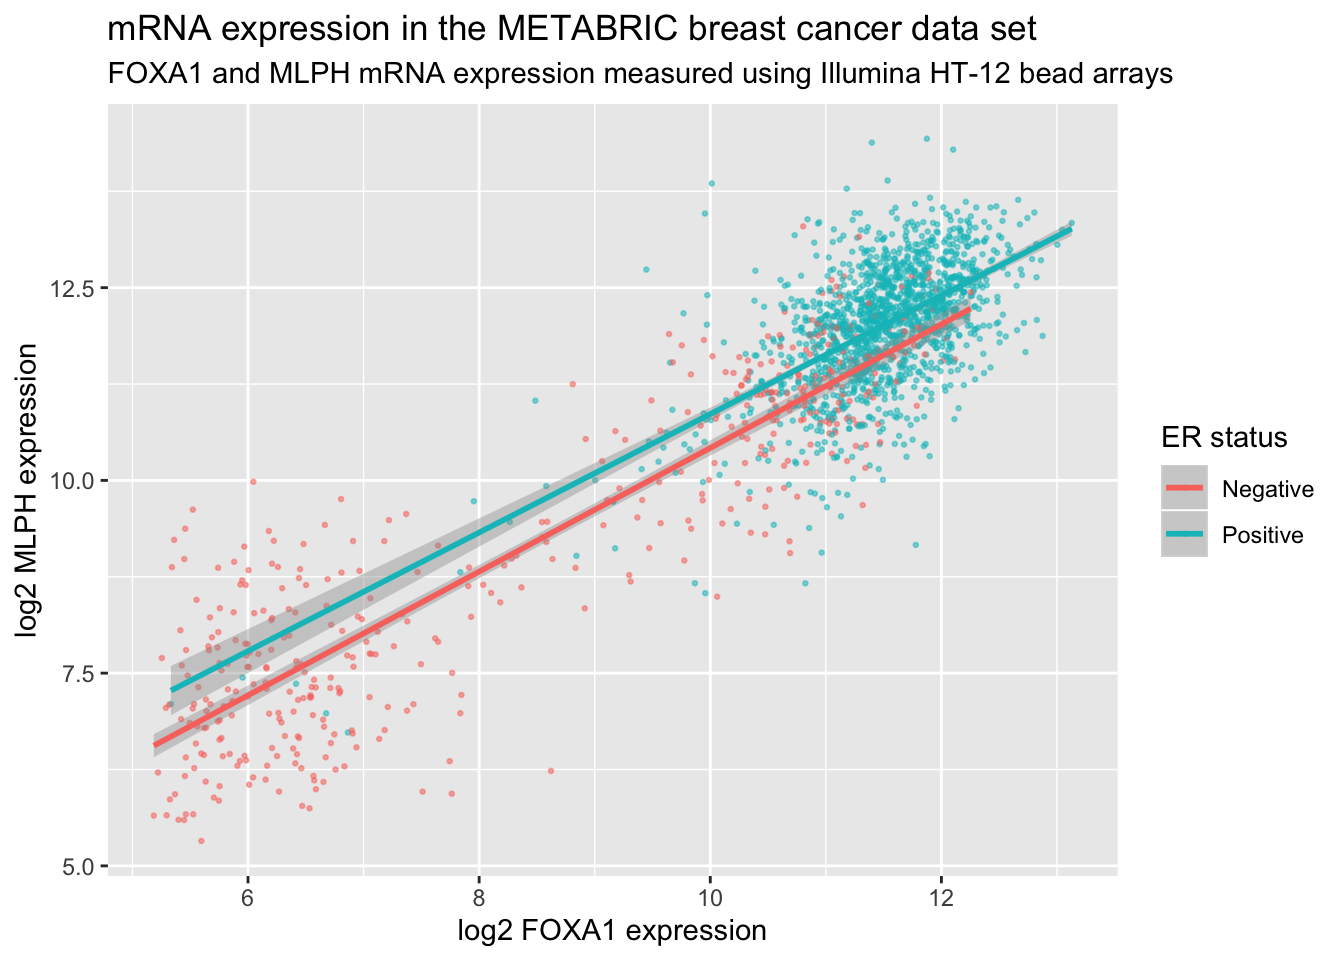
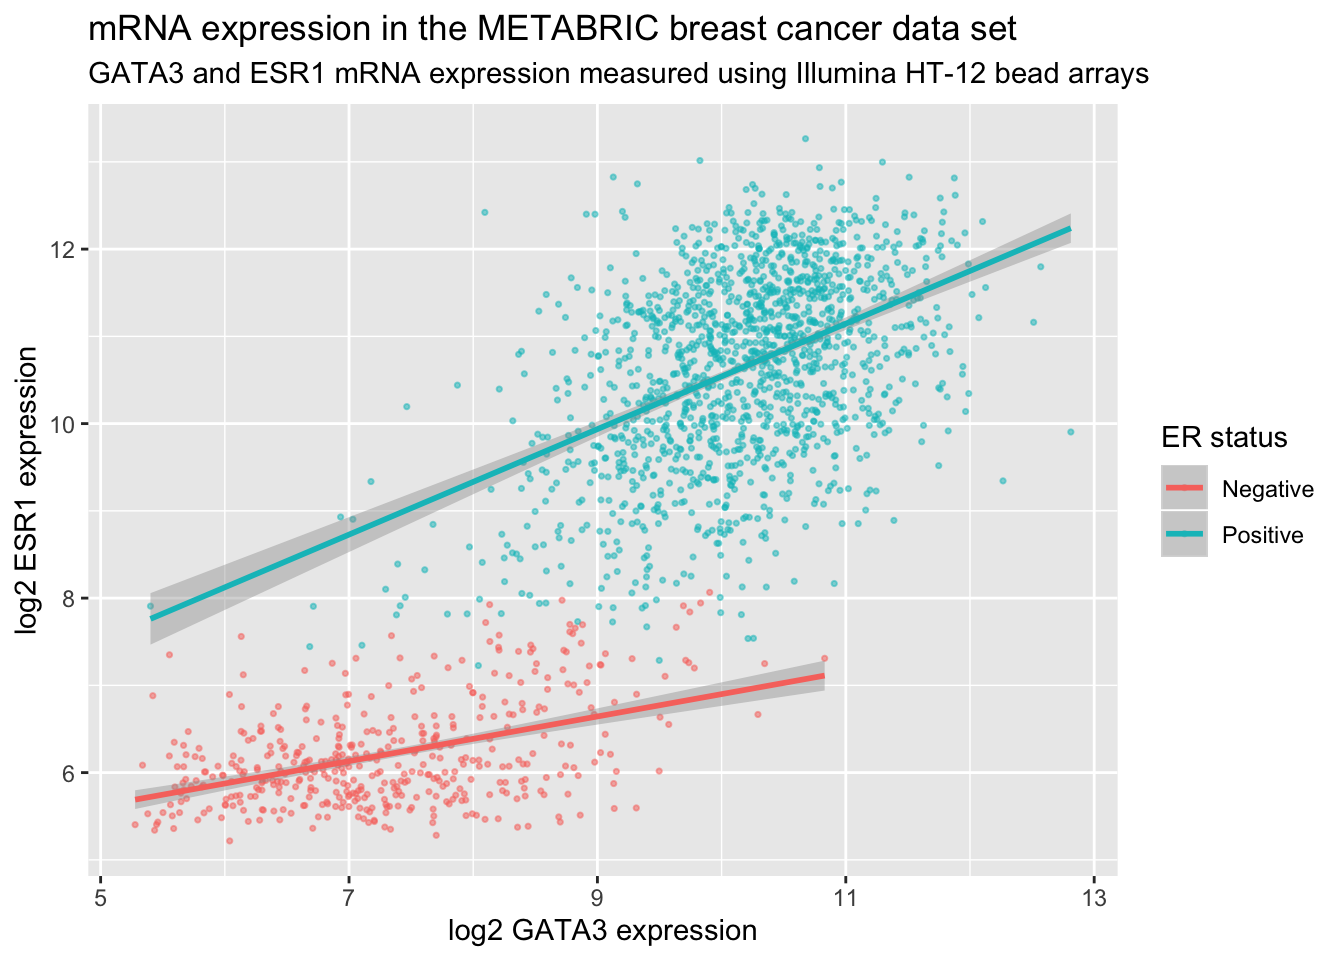
Added section on customizing colours in ggplot2 visualizations.

diff --git a/docs/week5.html b/docs/week5.html
@@ -1029,14 +1029,14 @@ combined_data</code></pre>
 <div id="titles-and-labels" class="section level2">
 <h2>Titles and labels</h2>
 <p>Adding titles and subtitles to a plot and changing the x- and y-axis labels is very straightforward using the <code>labs()</code> function.</p>
-<pre class="r"><code>plot &lt;- ggplot(data = metabric, mapping = aes(x = FOXA1, y = MLPH, colour = ER_status)) +
-  geom_point(size = 0.5, alpha = 0.5) +
+<pre class="r"><code>plot &lt;- ggplot(data = metabric, mapping = aes(x = GATA3, y = ESR1, colour = ER_status)) +
+  geom_point(size = 0.6, alpha = 0.5) +
   geom_smooth(method = &quot;lm&quot;) +
   labs(
     title = &quot;mRNA expression in the METABRIC breast cancer data set&quot;,
-    subtitle = &quot;FOXA1 and MLPH mRNA expression measured using Illumina HT-12 bead arrays&quot;,
-    x = &quot;log2 FOXA1 expression&quot;,
-    y = &quot;log2 MLPH expression&quot;,
+    subtitle = &quot;GATA3 and ESR1 mRNA expression measured using Illumina HT-12 bead arrays&quot;,
+    x = &quot;log2 GATA3 expression&quot;,
+    y = &quot;log2 ESR1 expression&quot;,
     colour = &quot;ER status&quot;
   )
 plot</code></pre>
@@ -1052,8 +1052,8 @@ plot</code></pre>
 <pre><code>## [1] &quot;data&quot;        &quot;layers&quot;      &quot;scales&quot;      &quot;mapping&quot;     &quot;theme&quot;      
 ## [6] &quot;coordinates&quot; &quot;facet&quot;       &quot;plot_env&quot;    &quot;labels&quot;</code></pre>
 <p>One of the components of the plot is called <code>scales</code>. ggplot2 automatically adds default scales behind the scenes equivalent to the following:</p>
-<pre class="r"><code>plot &lt;- ggplot(data = metabric, mapping = aes(x = FOXA1, y = MLPH, colour = ER_status)) +
-  geom_point(size = 0.5, alpha = 0.5) +
+<pre class="r"><code>plot &lt;- ggplot(data = metabric, mapping = aes(x = GATA3, y = ESR1, colour = ER_status)) +
+  geom_point(size = 0.6, alpha = 0.5) +
   geom_smooth(method = &quot;lm&quot;) +
   scale_x_continuous() +
   scale_y_continuous() +
@@ -1061,72 +1061,125 @@ plot</code></pre>
 <p>Note that we have three aesthetics and ggplot2 adds a scale for each.</p>
 <pre class="r"><code>plot$mapping</code></pre>
 <pre><code>## Aesthetic mapping: 
-## * `x`      -&gt; `FOXA1`
-## * `y`      -&gt; `MLPH`
+## * `x`      -&gt; `GATA3`
+## * `y`      -&gt; `ESR1`
 ## * `colour` -&gt; `ER_status`</code></pre>
 <p>The x and y variables are continuous hence ggplot2 adds a continuous scale for each. Colour is a discrete variable in this case so ggplot2 adds a discrete scale for colour.</p>
 <p>Generalizing, the scales that are required follow the naming scheme:</p>
 <pre><code>scale_&lt;NAME_OF_AESTHETIC&gt;_&lt;NAME_OF_SCALE&gt;</code></pre>
 <p>Look at the help page for <code>scale_y_continuous</code> so see what we can change about the y axis scale.</p>
 <p>First, we’ll change the breaks, i.e. where ggplot2 puts ticks and numeric labels, on the y axis.</p>
-<pre class="r"><code>ggplot(data = metabric, mapping = aes(x = FOXA1, y = MLPH, colour = ER_status)) +
-  geom_point(size = 0.5, alpha = 0.5) +
+<pre class="r"><code>ggplot(data = metabric, mapping = aes(x = GATA3, y = ESR1, colour = ER_status)) +
+  geom_point(size = 0.6, alpha = 0.5) +
   geom_smooth(method = &quot;lm&quot;) +
-  scale_y_continuous(breaks = seq(6, 14, by = 2))</code></pre>
+  scale_y_continuous(breaks = seq(5, 15, by = 2.5))</code></pre>
 <p><img src="week5_files/figure-html/scatter_plot_2-1.png" width="672" /></p>
-<p><code>seq()</code> is a useful function for generating regular sequences of number. In this case we wanted numbers from 6 to 14 going up in steps of 2.</p>
-<pre class="r"><code>seq(6, 14, by = 2)</code></pre>
-<pre><code>## [1]  6  8 10 12 14</code></pre>
+<p><code>seq()</code> is a useful function for generating regular sequences of number. In this case we wanted numbers from 5 to 15 going up in steps of 2.5.</p>
+<pre class="r"><code>seq(5, 15, by = 2.5)</code></pre>
+<pre><code>## [1]  5.0  7.5 10.0 12.5 15.0</code></pre>
 <p>We could do the same thing for the x axis using <code>scale_x_continuous()</code>.</p>
 <p>We can also adjust the extents of the x or y axis.</p>
-<pre class="r"><code>ggplot(data = metabric, mapping = aes(x = FOXA1, y = MLPH, colour = ER_status)) +
-  geom_point(size = 0.5, alpha = 0.5) +
+<pre class="r"><code>ggplot(data = metabric, mapping = aes(x = GATA3, y = ESR1, colour = ER_status)) +
+  geom_point(size = 0.6, alpha = 0.5) +
   geom_smooth(method = &quot;lm&quot;) +
-  scale_y_continuous(limits = c(4.5, 15))</code></pre>
+  scale_y_continuous(limits = c(4, 14))</code></pre>
 <p><img src="week5_files/figure-html/scatter_plot_3-1.png" width="672" /></p>
-<p>We can change the minor breaks, e.g. to add more lines that act as guides. These are shown as thin white lines when using the default theme (we’ll take a look at lternative themes next week).</p>
-<pre class="r"><code>ggplot(data = metabric, mapping = aes(x = FOXA1, y = MLPH, colour = ER_status)) +
-  geom_point(size = 0.5, alpha = 0.5) +
+<p>We can change the minor breaks, e.g. to add more lines that act as guides. These are shown as thin white lines when using the default theme (we’ll take a look at alternative themes next week).</p>
+<pre class="r"><code>ggplot(data = metabric, mapping = aes(x = GATA3, y = ESR1, colour = ER_status)) +
+  geom_point(size = 0.6, alpha = 0.5) +
   geom_smooth(method = &quot;lm&quot;) +
-  scale_y_continuous(breaks = seq(4, 14, by = 2), minor_breaks = seq(4.5, 15, 0.5), limits = c(4, 15))</code></pre>
+  scale_y_continuous(breaks = seq(5, 12.5, by = 2.5), minor_breaks = seq(4, 14, 0.5), limits = c(4, 14))</code></pre>
 <p><img src="week5_files/figure-html/scatter_plot_4-1.png" width="672" /></p>
-<pre class="r"><code>ggplot(data = metabric, mapping = aes(x = FOXA1, y = MLPH, colour = ER_status)) +
-  geom_point(size = 0.5, alpha = 0.5) +
-  geom_smooth(method = &quot;lm&quot;) +
-  scale_y_continuous(breaks = seq(4, 14, by = 2), minor_breaks = NULL, limits = c(4, 15))</code></pre>
-<p><img src="week5_files/figure-html/scatter_plot_5-1.png" width="672" /></p>
 <p>Or we can remove the minor breaks entirely.</p>
-<pre class="r"><code>ggplot(data = metabric, mapping = aes(x = FOXA1, y = MLPH, colour = ER_status)) +
-  geom_point(size = 0.5, alpha = 0.5) +
+<pre class="r"><code>ggplot(data = metabric, mapping = aes(x = GATA3, y = ESR1, colour = ER_status)) +
+  geom_point(size = 0.6, alpha = 0.5) +
   geom_smooth(method = &quot;lm&quot;) +
-  scale_y_continuous(breaks = seq(4, 14, by = 2), minor_breaks = NULL, limits = c(4, 15))</code></pre>
-<p><img src="week5_files/figure-html/scatter_plot_6-1.png" width="672" /></p>
+  scale_y_continuous(breaks = seq(4, 14, by = 2), minor_breaks = NULL, limits = c(4, 14))</code></pre>
+<p><img src="week5_files/figure-html/scatter_plot_5-1.png" width="672" /></p>
 <p>Similarly we could remove all breaks entirely.</p>
-<pre class="r"><code>ggplot(data = metabric, mapping = aes(x = FOXA1, y = MLPH, colour = ER_status)) +
-  geom_point(size = 0.5, alpha = 0.5) +
+<pre class="r"><code>ggplot(data = metabric, mapping = aes(x = GATA3, y = ESR1, colour = ER_status)) +
+  geom_point(size = 0.6, alpha = 0.5) +
   geom_smooth(method = &quot;lm&quot;) +
   scale_y_continuous(breaks = NULL)</code></pre>
-<p><img src="week5_files/figure-html/scatter_plot_7-1.png" width="672" /></p>
-<p>A more common scenario would be to keep the breaks, because we want to display the labels, but remove the grid lines. Somewhat confusingly the position of grid lines are controlled by a scale but preventing these from being displayed requires changing the theme. We’ll look at how the theme controls how non-data components of a plot can be customized next week but, for now, here’s an example of turning off the display of all grid lines for major and minor breaks for both axes.</p>
-<pre class="r"><code>ggplot(data = metabric, mapping = aes(x = FOXA1, y = MLPH, colour = ER_status)) +
-  geom_point(size = 0.5, alpha = 0.5) +
+<p><img src="week5_files/figure-html/scatter_plot_6-1.png" width="672" /></p>
+<p>A more typical scenario would be to keep the breaks, because we want to display the labels, but remove the grid lines. Somewhat confusingly the position of grid lines are controlled by a scale but preventing these from being displayed requires changing the theme. We’ll look at how the theme controls how non-data components of a plot can be customized next week but, for now, here’s an example of turning off the display of all grid lines for major and minor breaks for both axes and also the tick marks.</p>
+<pre class="r"><code>ggplot(data = metabric, mapping = aes(x = GATA3, y = ESR1, colour = ER_status)) +
+  geom_point(size = 0.6, alpha = 0.5) +
   geom_smooth(method = &quot;lm&quot;) +
-  scale_y_continuous(breaks = seq(4, 14, by = 2), limits = c(4, 15)) +
+  scale_y_continuous(breaks = seq(4, 14, by = 2), limits = c(4, 14)) +
   theme(panel.grid = element_blank())</code></pre>
-<p><img src="week5_files/figure-html/scatter_plot_8-1.png" width="672" /></p>
+<p><img src="week5_files/figure-html/scatter_plot_7-1.png" width="672" /></p>
 <p>By default the scales are expanded by 5% of the range on either side. We can add more space, e.g. 10% (0.1), as follows.</p>
-<pre class="r"><code>ggplot(data = metabric, mapping = aes(x = FOXA1, y = MLPH, colour = ER_status)) +
-  geom_point(size = 0.5, alpha = 0.5) +
+<pre class="r"><code>ggplot(data = metabric, mapping = aes(x = GATA3, y = ESR1, colour = ER_status)) +
+  geom_point(size = 0.6, alpha = 0.5) +
   geom_smooth(method = &quot;lm&quot;) +
   scale_x_continuous(expand = expand_scale(mult = 0.1)) +
   scale_y_continuous(expand = expand_scale(mult = 0.1))</code></pre>
-<p><img src="week5_files/figure-html/scatter_plot_9-1.png" width="672" /></p>
+<p><img src="week5_files/figure-html/scatter_plot_8-1.png" width="672" /></p>
 <p>We can move draw the axis on the other side of the plot –- not sure why you’d want to do this but with ggplot2 just about anything is possible.</p>
-<pre class="r"><code>ggplot(data = metabric, mapping = aes(x = FOXA1, y = MLPH, colour = ER_status)) +
-  geom_point(size = 0.5, alpha = 0.5) +
+<pre class="r"><code>ggplot(data = metabric, mapping = aes(x = GATA3, y = ESR1, colour = ER_status)) +
+  geom_point(size = 0.6, alpha = 0.5) +
   geom_smooth(method = &quot;lm&quot;) +
   scale_x_continuous(position = &quot;top&quot;)</code></pre>
+<p><img src="week5_files/figure-html/scatter_plot_9-1.png" width="672" /></p>
+</div>
+<div id="colours" class="section level2">
+<h2>Colours</h2>
+<p>The colour asthetic is used with a categorical variable, <code>ER_status</code>, in the scatter plots we’ve been customizing. The default colour scale used by ggplot2 for categorical variables is <code>scale_colour_discrete</code>. We can manually set the colours we wish to use using <code>scale_colour_manual</code> instead.</p>
+<pre class="r"><code>ggplot(data = metabric, mapping = aes(x = GATA3, y = ESR1, colour = ER_status)) +
+  geom_point(size = 0.6, alpha = 0.5) +
+  geom_smooth(method = &quot;lm&quot;) +
+  scale_colour_manual(values = c(&quot;green&quot;, &quot;orange&quot;))</code></pre>
 <p><img src="week5_files/figure-html/scatter_plot_10-1.png" width="672" /></p>
+<p>Setting colours manually when we only have a two or three categories but when we have a larger number it would be handy to be able to choose from a selection of carefully-constructed colour palettes. Helpfully, ggplot2 provides access to the <a href="http://colorbrewer2.org">ColorBrewer</a> palettes through the functions <code>scale_colour_brewer()</code> and <code>scale_fill_brewer()</code>.</p>
+<pre class="r"><code>ggplot(data = metabric, mapping = aes(x = GATA3, y = ESR1, colour = `3-gene_classifier`)) +
+  geom_point(size = 0.6, alpha = 0.5, na.rm = TRUE) +
+  scale_colour_brewer(palette = &quot;Set1&quot;)</code></pre>
+<p><img src="week5_files/figure-html/scatter_plot_11-1.png" width="672" /></p>
+<p>Look at the help page for <code>scale_colour_brewer</code> to see what other colour palettes are available and visit the <a href="http://colorbrewer2.org">ColorBrewer</a> website to see what these look like.</p>
+<p>Interestingly you can set other attributes other than just the colours at the same time.</p>
+<pre class="r"><code>ggplot(data = metabric, mapping = aes(x = GATA3, y = ESR1, colour = ER_status)) +
+  geom_point(size = 0.6, alpha = 0.5) +
+  geom_smooth(method = &quot;lm&quot;) +
+  scale_colour_manual(values = c(&quot;green&quot;, &quot;orange&quot;), labels = c(&quot;ER-negative&quot;, &quot;ER-positive&quot;)) +
+  labs(colour = NULL)  # remove legend title for colour now that the labels are self-explanatory</code></pre>
+<p><img src="week5_files/figure-html/scatter_plot_12-1.png" width="672" /></p>
+<p>What we have done here is to set our own set of mappings from levels in the data to aesthetic values.</p>
+<p>For continuous variables we need to be able to set colours used in the colour gradient. To demonstrate this we’ll correct the Nottingham prognostic index (NPI) values and use this to colour points in the scatter plot of ESR1 vs GATA3 expression on a continuous scale.</p>
+<pre class="r"><code># Nottingham_prognostic_index is incorrectly calculated in the data downloaded from cBioPortal
+metabric &lt;- mutate(metabric, Nottingham_prognostic_index = 0.02 * Tumour_size + Lymph_node_status + Neoplasm_histologic_grade)
+#
+metabric %&gt;%
+  filter(!is.na(Nottingham_prognostic_index)) %&gt;%
+  ggplot(mapping = aes(x = GATA3, y = ESR1, colour = Nottingham_prognostic_index)) +
+  geom_point(size = 0.5)</code></pre>
+<p><img src="week5_files/figure-html/scatter_plot_13-1.png" width="672" /></p>
+<p>Higher NPI scores correspond to worse prognosis and lower chance of 5 year survival. We’ll emphasize those points on the scatter plot by adjusting our colour scale.</p>
+<pre class="r"><code>metabric %&gt;%
+  filter(!is.na(Nottingham_prognostic_index)) %&gt;%
+  ggplot(mapping = aes(x = GATA3, y = ESR1, colour = Nottingham_prognostic_index)) +
+  geom_point(size = 0.5) +
+  scale_colour_gradient(low = &quot;yellow&quot;, high = &quot;red&quot;)</code></pre>
+<p><img src="week5_files/figure-html/scatter_plot_14-1.png" width="672" /></p>
+<p>In some cases it might make sense to specify two colour gradients either side of a mid-point.</p>
+<pre class="r"><code>metabric %&gt;%
+  filter(!is.na(Nottingham_prognostic_index)) %&gt;%
+  ggplot(mapping = aes(x = GATA3, y = ESR1, colour = Nottingham_prognostic_index)) +
+  geom_point(size = 0.5) +
+  scale_colour_gradient2(low = &quot;blue&quot;, mid = &quot;grey80&quot;, high = &quot;red&quot;, midpoint = 4.5)</code></pre>
+<p><img src="week5_files/figure-html/scatter_plot_15-1.png" width="672" /></p>
+<p>As before we can override the default labels and other aspects of the colour scale within the scale function.</p>
+<pre class="r"><code>metabric %&gt;%
+  filter(!is.na(Nottingham_prognostic_index)) %&gt;%
+  ggplot(mapping = aes(x = GATA3, y = ESR1, colour = Nottingham_prognostic_index)) +
+  geom_point(size = 0.5) +
+  scale_colour_gradient(
+    low = &quot;lightblue&quot;, high = &quot;darkblue&quot;,
+    name = &quot;NPI&quot;,
+    breaks = 2:6,
+    limits = c(1.5, 6.5)
+  )</code></pre>
+<p><img src="week5_files/figure-html/scatter_plot_16-1.png" width="672" /></p>
 </div>
 </div>
 
